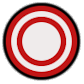
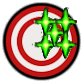
Bugfix and adjustments
- Archery revamp
- Localization

Changed region(s): [[0.381, 0.0714, 0.9286, 0.7143]]

diff --git a/src/main/java/fakermod/powers/ArcheryPower.java b/src/main/java/fakermod/powers/ArcheryPower.java
@@ -6,11 +6,11 @@ import com.badlogic.gdx.graphics.g2d.TextureAtlas;
 import com.megacrit.cardcrawl.cards.AbstractCard;
 import com.megacrit.cardcrawl.core.AbstractCreature;
 import com.megacrit.cardcrawl.core.CardCrawlGame;
+import com.megacrit.cardcrawl.dungeons.AbstractDungeon;
 import com.megacrit.cardcrawl.localization.PowerStrings;
 import com.megacrit.cardcrawl.monsters.AbstractMonster;
 import com.megacrit.cardcrawl.powers.AbstractPower;
 import fakermod.ModFile;
-import fakermod.actions.ArcheryAction;
 import fakermod.tags.customTag;
 import fakermod.util.TexLoader;
 
@@ -20,14 +20,16 @@ public class ArcheryPower extends AbstractPower implements CloneablePowerInterfa
     public static final String NAME = powerStrings.NAME;
     public static final String[] DESCRIPTIONS = powerStrings.DESCRIPTIONS;
 
+    private int healAmt;
 
-    public ArcheryPower(final AbstractCreature owner, final int amount) {
+    public ArcheryPower(final AbstractCreature owner, final int amount, int healAmt) {
         ID = POWER_ID;
         name = NAME;
         type = PowerType.BUFF;
 
         this.owner = owner;
         this.amount = amount;
+        this.healAmt = healAmt;
 
         Texture normalTexture = TexLoader.getTexture(ModFile.modID + "Resources/images/powers/" + ID.replaceAll(ModFile.modID + ":", "") + "32.png");
         Texture hiDefImage = TexLoader.getTexture(ModFile.modID + "Resources/images/powers/" + ID.replaceAll(ModFile.modID + ":", "") + "84.png");
@@ -45,19 +47,30 @@ public class ArcheryPower extends AbstractPower implements CloneablePowerInterfa
     }
 
     @Override
+    public void atStartOfTurn() {
+        amount = 3;
+    }
+
+    @Override
     public void onPlayCard(AbstractCard card, AbstractMonster m) {
         if (card.hasTag(customTag.RANGED)) {
-            this.addToBot(new ArcheryAction(m, this.amount));
+            amount--;
+        }
+
+        if (amount <= 0)  {
+            AbstractDungeon.player.heal(healAmt);
+            amount = 3;
         }
     }
 
     @Override
     public void updateDescription() {
-        this.description = DESCRIPTIONS[0];
+        this.description = DESCRIPTIONS[0] + this.amount + (this.amount == 1 ? DESCRIPTIONS[1] + this.healAmt : DESCRIPTIONS[2] + healAmt);
+
     }
 
     @Override
     public AbstractPower makeCopy() {
-        return new ArcheryPower(owner, amount);
+        return new ArcheryPower(owner, amount, healAmt);
     }
 }

diff --git a/src/main/java/fakermod/cards/Archery.java b/src/main/java/fakermod/cards/Archery.java
@@ -12,15 +12,16 @@ public class Archery extends AbstractEasyCard {
  
     public Archery() {
         super(ID, 1, CardType.POWER, CardRarity.UNCOMMON, CardTarget.NONE);
-        baseMagicNumber = magicNumber = 4;
+        baseMagicNumber = magicNumber = 3;
+        baseSecondMagic = secondMagic = 4;
     }
 
     public void use(AbstractPlayer p, AbstractMonster m) {
-        this.addToBot(new ApplyPowerAction(p, p, new ArcheryPower(p, magicNumber)));
+        this.addToBot(new ApplyPowerAction(p, p, new ArcheryPower(p, magicNumber, secondMagic)));
     }
 
     @Override
     public void upp() {
-        upgradeMagicNumber(2);
+        upgradeSecondMagic(2);
     }
 }
